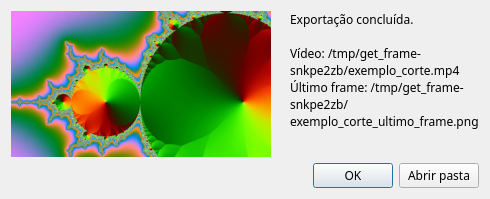
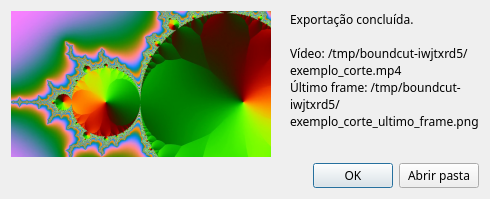
Renomeia o programa para BoundCut
EndFrame amarrava o programa ao último frame, mas a ideia é ele também
pegar o primeiro e extrair frames sem cortar. BoundCut fala dos limites
(bounds) do trecho, sem se prender a um frame só. FrameCut, a primeira
opção, já existia; BoundCut está livre no PyPI e no GitHub.

Mudam o módulo (boundcut.py), o comando e o pacote (boundcut), o título
da janela e o atalho do menu; o instalar-atalho.sh remove os atalhos dos
nomes antigos (get_frame e endframe). A pasta local continua get_frame.

diff --git a/boundcut.py b/boundcut.py
@@ -1,5 +1,5 @@
 #!/usr/bin/env python3
-"""EndFrame — editor simples para cortar um vídeo e salvar o último frame do corte.
+"""BoundCut — editor simples para cortar um vídeo e salvar o último frame do corte.
 
 Fluxo: abrir vídeo → marcar início/fim → exportar.
 A exportação mantém o formato original (mesmo container e, quando possível,
@@ -54,9 +54,9 @@ from PyQt6.QtWidgets import (
 VIDEO_EXTS = {".mp4", ".mov", ".mkv", ".webm", ".avi", ".m4v", ".mpg", ".mpeg", ".ts", ".wmv", ".flv"}
 
 _AQUI = Path(__file__).resolve().parent
-# rodando do repositório: assets/icone.svg; instalado (pip/uv/pipx): endframe_icone.svg ao lado do módulo
+# rodando do repositório: assets/icone.svg; instalado (pip/uv/pipx): boundcut_icone.svg ao lado do módulo
 ICON_PATH = next(
-    (p for p in (_AQUI / "assets" / "icone.svg", _AQUI / "endframe_icone.svg") if p.exists()),
+    (p for p in (_AQUI / "assets" / "icone.svg", _AQUI / "boundcut_icone.svg") if p.exists()),
     _AQUI / "assets" / "icone.svg",
 )
 
@@ -444,7 +444,7 @@ class Timeline(QWidget):
 class MainWindow(QMainWindow):
     def __init__(self):
         super().__init__()
-        self.setWindowTitle("EndFrame — cortar vídeo e salvar último frame")
+        self.setWindowTitle("BoundCut — cortar vídeo e salvar último frame")
         self.resize(1100, 760)
         self.setAcceptDrops(True)
 
@@ -840,8 +840,8 @@ class MainWindow(QMainWindow):
 def main():
     missing = [b for b in ("ffmpeg", "ffprobe") if not shutil.which(b)]
     app = QApplication(sys.argv)
-    app.setApplicationName("EndFrame")
-    app.setDesktopFileName("endframe")  # no Wayland o ícone da barra vem do .desktop
+    app.setApplicationName("BoundCut")
+    app.setDesktopFileName("boundcut")  # no Wayland o ícone da barra vem do .desktop
     if ICON_PATH.exists():
         app.setWindowIcon(QIcon(str(ICON_PATH)))
     app.setStyle("Fusion")

diff --git a/tests/test_projeto.py b/tests/test_projeto.py
@@ -6,7 +6,7 @@ import subprocess
 import unittest
 from pathlib import Path
 
-import endframe as g
+import boundcut as g
 
 RAIZ = Path(__file__).resolve().parent.parent
 
@@ -24,13 +24,13 @@ class TestPyproject(unittest.TestCase):
 
     def test_versao_vem_do_modulo(self):
         self.assertIn("version", self.cfg["project"]["dynamic"])
-        self.assertEqual(self.cfg["tool"]["hatch"]["version"]["path"], "endframe.py")
+        self.assertEqual(self.cfg["tool"]["hatch"]["version"]["path"], "boundcut.py")
         self.assertRegex(g.__version__, r"^\d+\.\d+\.\d+$")
 
     def test_comando_aponta_para_funcao_existente(self):
-        alvo = self.cfg["project"]["gui-scripts"]["endframe"]
+        alvo = self.cfg["project"]["gui-scripts"]["boundcut"]
         modulo, funcao = alvo.split(":")
-        self.assertEqual(modulo, "endframe")
+        self.assertEqual(modulo, "boundcut")
         self.assertTrue(callable(getattr(g, funcao)))
 
     def test_arquivos_empacotados_existem(self):

diff --git a/scripts/gerar_prints.py b/scripts/gerar_prints.py
@@ -25,7 +25,7 @@ from PyQt6.QtCore import Qt, QTimer  # noqa: E402
 from PyQt6.QtGui import QPixmap  # noqa: E402
 from PyQt6.QtWidgets import QApplication, QLabel  # noqa: E402
 
-import endframe as g  # noqa: E402
+import boundcut as g  # noqa: E402
 
 SAIDA = RAIZ / "assets" / "prints"
 IN_MS, OUT_MS = 1500, 6000
@@ -40,7 +40,7 @@ def main() -> int:
     app.setStyle("Fusion")
     SAIDA.mkdir(parents=True, exist_ok=True)
 
-    with tempfile.TemporaryDirectory(prefix="endframe-") as tmp:
+    with tempfile.TemporaryDirectory(prefix="boundcut-") as tmp:
         tmp = Path(tmp)
         video = tmp / "exemplo.mp4"
         ffmpeg(

diff --git a/tests/test_exportacao.py b/tests/test_exportacao.py
@@ -5,7 +5,7 @@ import tempfile
 import unittest
 from pathlib import Path
 
-import endframe as g
+import boundcut as g
 from tests.base import app, codec_video, contar_frames, extrair_frame, gerar_video, precisa_ffmpeg, psnr
 
 

diff --git a/tests/__init__.py b/tests/__init__.py
@@ -1,4 +1,4 @@
-"""Testes do EndFrame. Rodar da raiz do projeto:  python -m unittest -v"""
+"""Testes do BoundCut. Rodar da raiz do projeto:  python -m unittest -v"""
 
 import os
 

diff --git a/tests/test_unidade.py b/tests/test_unidade.py
@@ -3,7 +3,7 @@
 import unittest
 from pathlib import Path
 
-import endframe as g
+import boundcut as g
 from tests.base import app
 
 

diff --git a/README.pt-BR.md b/README.pt-BR.md
@@ -1,12 +1,12 @@
 <p align="center"><img src="assets/icone-256.png" width="96" alt=""></p>
 
-# EndFrame
+# BoundCut
 
 [English](README.md) · **Português**
 
 Editor simples para **cortar um vídeo** e, junto com o corte, **salvar o último frame** como PNG.
 
-![Janela do EndFrame com o trecho marcado na linha do tempo](assets/prints/janela.png)
+![Janela do BoundCut com o trecho marcado na linha do tempo](assets/prints/janela.png)
 
 <p align="center"><img src="assets/prints/exportado.png" width="480" alt="Diálogo de exportação concluída com a prévia do último frame"></p>
 
@@ -24,16 +24,16 @@ Em outros sistemas: `pip install PyQt6` e instale o ffmpeg pelo gerenciador de p
 Direto do repositório (usa o PyQt6 já instalado no sistema):
 
 ```bash
-python endframe.py              # abre a janela
-python endframe.py video.mp4    # já abre com um vídeo
+python boundcut.py              # abre a janela
+python boundcut.py video.mp4    # já abre com um vídeo
 ./instalar-atalho.sh             # opcional (Linux): atalho no menu, com ícone
 ```
 
-Ou instalado como comando (`endframe`), num ambiente isolado que já traz o PyQt6:
+Ou instalado como comando (`boundcut`), num ambiente isolado que já traz o PyQt6:
 
 ```bash
-uv tool install git+https://github.com/FRubik/endframe   # ou: pipx install git+https://…
-endframe video.mp4
+uv tool install git+https://github.com/FRubik/boundcut   # ou: pipx install git+https://…
+boundcut video.mp4
 ```
 
 O ffmpeg continua vindo do sistema em qualquer caso.

diff --git a/README.md b/README.md
@@ -1,12 +1,12 @@
 <p align="center"><img src="assets/icone-256.png" width="96" alt=""></p>
 
-# EndFrame
+# BoundCut
 
 **English** · [Português](README.pt-BR.md)
 
 A simple video trimmer that, along with the cut, **saves the last frame of the clip** as a PNG.
 
-![EndFrame window with a segment marked on the timeline](assets/prints/janela.png)
+![BoundCut window with a segment marked on the timeline](assets/prints/janela.png)
 
 <p align="center"><img src="assets/prints/exportado.png" width="480" alt="Export finished dialog with a preview of the last frame"></p>
 
@@ -26,16 +26,16 @@ Elsewhere: `pip install PyQt6` and install ffmpeg with your package manager.
 Straight from the repository (uses the system's PyQt6):
 
 ```bash
-python endframe.py              # open the window
-python endframe.py video.mp4    # open with a video loaded
+python boundcut.py              # open the window
+python boundcut.py video.mp4    # open with a video loaded
 ./instalar-atalho.sh             # optional (Linux): app menu shortcut with icon
 ```
 
-Or installed as a command (`endframe`) in an isolated environment that brings its own PyQt6:
+Or installed as a command (`boundcut`) in an isolated environment that brings its own PyQt6:
 
 ```bash
-uv tool install git+https://github.com/FRubik/endframe   # or: pipx install git+https://…
-endframe video.mp4
+uv tool install git+https://github.com/FRubik/boundcut   # or: pipx install git+https://…
+boundcut video.mp4
 ```
 
 ffmpeg still comes from the system either way.
